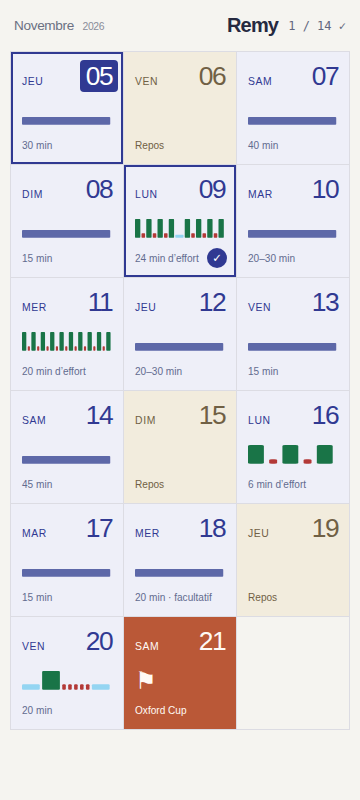
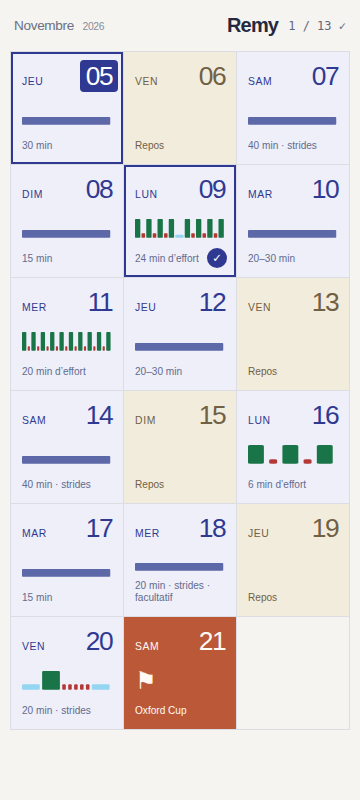
Affiche les strides et ajuste les journées des 13 et 14

diff --git a/app.js b/app.js
@@ -84,9 +84,10 @@ function renderDays() {
   const weekday=new Intl.DateTimeFormat('fr-CA',{weekday:'short'});
   for(const day of data.days) {
     const done=!!completed[day.date],w=day.workout,type=w?.type;
+    const hasStrides=type==='easy-strides'||(type==='steps'&&buildPhases(w).some(p=>p.kind==='stride'));
     const total=type==='steps'?buildPhases(w).reduce((n,p)=>n+(p.seconds||0),0):null;
     const label=type==='race'?'Oxford Cup':day.rest?'Repos':day.effortMinutes?`${day.effortMinutes} min d’effort`:w?.durationSeconds?`${w.optionalAfterSeconds?w.optionalAfterSeconds/60+'–':''}${w.durationSeconds/60} min`:total?`${total/60} min`:'';
-    html+=`<button type="button" class="day-button ${day.status} ${type==='race'?'race':''} ${w?'has-workout':''} ${day.rest?'rest':''} ${done?'completed':''}" data-day="${day.date}" aria-haspopup="dialog" aria-label="${escape(dayFormat.format(date(day.date))+' : '+day.title+(day.optional?', facultatif':'')+(w?done?', séance faite':', séance à faire':''))}"><span class="day-top"><span class="day-name">${escape(weekday.format(date(day.date)).replace('.',''))}</span><span class="day-number">${String(date(day.date).getDate()).padStart(2,'0')}</span></span>${workoutGraph(day)}<span class="day-short">${escape(label+(day.optional?' · facultatif':''))}</span>${done?'<span class="day-marker" aria-hidden="true">✓</span>':''}${type==='race'?'<span class="race-flag" aria-hidden="true">⚑</span>':''}</button>`;
+    html+=`<button type="button" class="day-button ${day.status} ${type==='race'?'race':''} ${w?'has-workout':''} ${day.rest?'rest':''} ${done?'completed':''}" data-day="${day.date}" aria-haspopup="dialog" aria-label="${escape(dayFormat.format(date(day.date))+' : '+day.title+(day.optional?', facultatif':'')+(w?done?', séance faite':', séance à faire':''))}"><span class="day-top"><span class="day-name">${escape(weekday.format(date(day.date)).replace('.',''))}</span><span class="day-number">${String(date(day.date).getDate()).padStart(2,'0')}</span></span>${workoutGraph(day)}<span class="day-short">${escape(label+(hasStrides?' · strides':'')+(day.optional?' · facultatif':''))}</span>${done?'<span class="day-marker" aria-hidden="true">✓</span>':''}${type==='race'?'<span class="race-flag" aria-hidden="true">⚑</span>':''}</button>`;
   }
   $('days').innerHTML=html;refreshCalendarDates();
   const count=data.days.filter(d=>d.workout&&completed[d.date]).length,total=data.days.filter(d=>d.workout).length;

diff --git a/mise-a-jour.html b/mise-a-jour.html
@@ -2,7 +2,7 @@
 <html lang="fr-CA">
 <head>
 <meta charset="utf-8"><meta name="viewport" content="width=device-width,initial-scale=1">
-<meta name="remy-build" content="remy-e33b260e4673ed20"><title>Actualiser Remy</title>
+<meta name="remy-build" content="remy-1c683ac68f4c5bcc"><title>Actualiser Remy</title>
 <style>body{margin:0;padding:32px;font:16px/1.6 Arial,sans-serif;background:#f5f4f0;color:#252940}main{max-width:480px;margin:12vh auto}h1{font-size:28px;letter-spacing:-1px}a{color:#303992}p{margin:20px 0}</style>
 </head>
 <body><main><h1>Actualisation de Remy</h1><p id="status" role="status">Recherche de la dernière version… Tes séances faites sont conservées.</p><a href="./">Retour au calendrier</a></main>

diff --git a/index.html b/index.html
@@ -3,7 +3,7 @@
 <head>
   <meta charset="utf-8">
   <meta name="viewport" content="width=device-width, initial-scale=1, viewport-fit=cover">
-  <meta name="remy-build" content="remy-e33b260e4673ed20">
+  <meta name="remy-build" content="remy-1c683ac68f4c5bcc">
   <meta name="theme-color" content="#f5f4f0">
   <meta name="description" content="Le carnet de course de Remy. Calendrier et chronomètre pour l’Oxford Cup du 21 novembre 2026.">
   <title>Remy — Calendrier</title>

diff --git a/sw.js b/sw.js
@@ -1,5 +1,5 @@
 // Generated build identity includes this worker and every static resource.
-const VERSION = 'remy-e33b260e4673ed20';
+const VERSION = 'remy-1c683ac68f4c5bcc';
 const SCOPE = new URL(self.registration.scope);
 const CACHE = `${VERSION}@${SCOPE.pathname}`;
 const FILES = ['./','./index.html','./mise-a-jour.html','./style.css','./app.js','./engine.js','./schedule.json','./icon.svg','./icon-192.png','./icon-512.png','./manifest.webmanifest'];

diff --git a/style.css b/style.css
@@ -57,6 +57,9 @@
   .day-button.race .day-marker { color:#743821; background:#fffaf5; }
   .day-button:hover { box-shadow:inset 0 0 0 2px #777eab; }
   .day-button:focus-visible { outline-offset:-4px; z-index:1; }
+  @media(min-width:601px) and (max-width:900px) {
+    .day-button { padding:10px; }
+  }
   @media(max-width:600px) {
     #home { padding:12px 10px max(12px,env(safe-area-inset-bottom)); }
     .calendar-header { padding:2px 4px 14px; }

diff --git a/docs/verification.md b/docs/verification.md
@@ -13,7 +13,7 @@ Captures : [calendrier](apercu-mobile.png), [fiche du 9](apercu-fiche.png), [chr
 
 ## Comportements précisés
 
-Le 5 lance un jog de 30 minutes; le 7 un jog de 40 minutes avec objectif de six strides de 20 secondes. Le 14 conserve 45 minutes et six strides de 20 secondes, précédées de l’échauffement libre demandé. Les séances futures avec répétitions reçoivent aussi un échauffement libre; l’activation du 20 conserve explicitement sa séquence existante.
+Le 5 lance un jog de 30 minutes; le 7 un jog de 40 minutes avec objectif de six strides de 20 secondes. Le 14 conserve désormais 40 minutes et six strides de 20 secondes, précédées de l’échauffement libre demandé. Les séances futures avec répétitions reçoivent aussi un échauffement libre; l’activation du 20 conserve explicitement sa séquence existante.
 
 Le maintien de 3 secondes démarre les intervalles ou le bloc suivant sans déverrouiller les autres commandes. Le maintien de 1 seconde lance un stride même quand les commandes sont verrouillées. Pause et Stop demandent le déverrouillage habituel. Le compteur « strides effectués » compte les déclenchements; le résumé sépare les strides lancés, complétés et interrompus.
 
@@ -23,13 +23,13 @@ Les instantanés d’anciens chronos devenus incompatibles sont écartés avec u
 
 ## Correction des strides et migration du cache
 
-Correction confirmée par Eric : le 7 reste à 40 minutes, le 14 à 45 minutes; les deux ont six strides de 20 secondes. Le moteur et les fiches lisent ces mêmes données; depuis le 6 novembre, les graphiques masquent les strides à la demande d’Eric. Aucune autre prescription n’est modifiée.
+Correction confirmée par Eric : le 7 reste à 40 minutes, le 14 est maintenant à 40 minutes; les deux ont six strides de 20 secondes. Le moteur et les fiches lisent ces mêmes données; depuis le 6 novembre, les graphiques masquent les strides à la demande d’Eric. Aucune autre prescription n’est modifiée.
 
 Le défaut de cache a été reproduit : avec le commit `6ab5284` actif et `8755ed8` en attente, recharger ne suffit pas; l’ancien calendrier de 15 cases reste affiché. Le service worker servait les anciens fichiers en priorité et attendait la fermeture de toutes les fenêtres pour activer la nouvelle version. Références du mécanisme : [activation immédiate contrôlée](https://developer.mozilla.org/en-US/docs/Web/API/ServiceWorkerGlobalScope/skipWaiting), [vérification des mises à jour](https://developer.mozilla.org/en-US/docs/Web/API/ServiceWorkerRegistration/update).
 
 La nouvelle version télécharge un ensemble complet avec des requêtes propres à sa version, s’active sans attendre la fermeture de toutes les fenêtres, puis actualise le calendrier. Les pages modernes reportent le rechargement pendant un chrono. Les anciennes pages ne répondant pas au nouveau protocole sont actualisées seulement si elles ne montrent pas de chrono. Le lien `mise-a-jour.html` permet aussi de quitter une ancienne installation sans effacer les données locales. La version est indiquée dans les fiches.
 
-**12 scénarios de migration réussis** simulent les deux anciens états, une mise à jour future avec chrono actif, une connexion coupée et un fichier manquant. Les coches et les chronos compatibles mis en pause sont conservés; une mise à jour incomplète laisse la version hors ligne précédente disponible. Les caches d’autres chemins et localStorage ne sont pas supprimés.
+**13 scénarios de migration réussis** simulent les deux anciens états, une mise à jour future avec chrono actif, une connexion coupée et un fichier manquant. Les coches et les chronos compatibles mis en pause sont conservés; une mise à jour incomplète laisse la version hors ligne précédente disponible. Les caches d’autres chemins et localStorage ne sont pas supprimés.
 
 La nouvelle apparence est vérifiée après migration en fenêtres **360×800** et **412×915** : trois colonnes, cases carrées, noms des jours, mini-graphiques des 9 et 11, mois discret. Captures : [avant migration](migration-avant.png), [après, 360 px](migration-360.png), [après, 412 px](migration-412.png). Il s’agit de simulations Chromium, pas d’une observation du Galaxy d’Eric.
 
@@ -41,7 +41,7 @@ Le contenu des séances et le moteur restent identiques au commit `0f94bdd`; seu
 
 ## Calendrier et consignes du 6 novembre 2026
 
-Repos confirmés les 6, 15 et 19. Le 8 propose 15 min très faciles ou repos si jambes lourdes; le 13, 15 min faciles; le 17, 15 min très faciles confirmées. Le 12 a ensuite été confirmé comme jog très léger de 20–30 min.
+Repos confirmés les 6, 13, 15 et 19. Le 8 propose 15 min très faciles ou repos si jambes lourdes; le 17, 15 min très faciles confirmées. Le 12 a ensuite été confirmé comme jog très léger de 20–30 min.
 
 Le 10 propose 20–30 min en Z1 : compte à rebours initial 30:00, bleu ciel jusqu’à 20 min écoulées, puis gris avec 10:00 restantes. Arrêt possible après 20 min; les dix dernières sont facultatives. À zéro, temps supplémentaire ascendant gris jusqu’à Stop. Les tests couvrent le seuil exact, la pause/reprise, le rechargement, l’arrêt anticipé et le résumé.
 
@@ -58,6 +58,12 @@ Les migrations incluent le commit publié `cbb32c4` avec conservation des coches
 La demande corrigée d’Eric est un jog très léger de **20 à 30 minutes**. Seule cette journée change, avec la révision `2026-11-06.4`. Le fonctionnement existant du 10 est réutilisé : départ à 30:00, bleu ciel pendant 20 minutes, gris dès 10:00 restantes pour la portion facultative, puis temps supplémentaire ascendant à zéro. Stop termine et affiche le résumé; pause/reprise et rechargement conservent le temps actif. Aucune zone supplémentaire n’est imposée.
 
 Les parcours tactiles vérifient ces transitions, l’arrêt après 20 minutes et la reprise du 12; les migrations incluent la version publiée `49b6653` et conservent les coches. Les autres journées et le code du chrono restent identiques. [Capture de la fiche du 12](fiche-jog-12.png).
+
+## Repos le vendredi 13 novembre
+
+À la demande d’Eric, le jog du 13 est remplacé par une journée de repos confirmée. Sa case et sa fiche utilisent le même libellé et le même style pâle que les autres repos, sans bouton de chrono. Le 14 passe à 40 minutes avec ses six strides de 20 secondes; ses textes et son chrono sont adaptés. Les cases des 7, 14, 18 et 20 affichent « strides », sans ajout dans les graphiques. Toutes les autres prescriptions restent identiques. Révision : `2026-11-06.5`.
+
+La migration depuis `17b5d7b` vérifie le remplacement du jog, le maintien des coches et l’ouverture d’un ancien lien de chrono du 13 sur la fiche Repos, sans lancer de séance. Un ancien chrono du 14 est reconnu comme incompatible et repart au début avec un avis explicite; sa coche est conservée. Les 13 scénarios de migration couvrent ces deux changements. Les libellés restent lisibles de 320 à 1 440 px sans débordement horizontal ou vertical; les marges sont adaptées entre 601 et 900 px. Captures : [repos du 13](fiche-repos-13.png), [40 minutes du 14](fiche-strides-14.png).
 
 ## Référence GBoxeur et revue Astra
 

diff --git a/AGENTS.md b/AGENTS.md
@@ -4,16 +4,17 @@ Projet statique indépendant pour Remy. Lire README.md et docs/seances.md avant 
 
 - Source du programme : schedule.json. Ne pas inventer d’entraînement, de durée ou de zone. Les inconnues restent explicites.
 - Accueil : seulement le calendrier interactif, sans accroche, panneau d’aide ou barre du bas. Les détails appartiennent aux fiches ouvertes par les dates.
+- Calendrier : afficher « strides » dans les cases des 7, 14, 18 et 20, sans les dessiner dans les graphiques.
 - Graphiques : aucun stride représenté, même dans les étapes de l’activation; conserver les descriptions et chronos. Les phases d’intervalles représentées partagent exactement les couleurs du chrono. Cette demande remplace l’interdiction initiale du vert à l’accueil.
 - Français québécois, langage simple : jog facile, récupération, répétitions, accélérations.
 - Activation confirmée vendredi 20 novembre 2026; course samedi 21. La clarification du 5 novembre remplace l’ambiguïté antérieure.
-- Dernières décisions du 6 novembre : repos les 6, 15 et 19; le 8, 15 min très faciles ou repos si jambes lourdes; le 13, 15 min faciles; le 17, 15 min très faciles confirmées.
+- Dernières décisions du 6 novembre : repos les 6, 13, 15 et 19; le 8, 15 min très faciles ou repos si jambes lourdes; le 17, 15 min très faciles confirmées.
 - Le 10 : jog Z1 20–30 min, chrono 30:00 bleu ciel puis gris après 20 min. Les 10 dernières minutes sont facultatives; aucun arrêt automatique, temps supplémentaire puis résumé au Stop.
 - Le 12 : jog très léger 20–30 min, avec le même compte à rebours et la même portion facultative que le 10. Ne pas reprendre l’ancienne demande 15–20 min.
 - Le 16 : échauffement conseillé 10 min mais libre, 3 × 2 min à effort 5 km, seulement 2 récupérations de 1 min très facile, retour conseillé 5 min mais libre; total indicatif 23 min. Le 18 : facultatif, 20 min très faciles et 4 strides de 10 s, chrono/maintien/compteur existants. Le 20 reste inchangé.
-- Explications sous Strides les 7, 14 et 18, adaptées aux 40/45/20 min et 6×20/6×20/4×10 s : répartition libre, vitesse contrôlée sans sprint, maintien du bouton 1 s, récupération jusqu’à respiration régulière. Le 11 a une fiche plus claire avec échauffement/retour libres; son programme et le contenu du 9 restent inchangés.
+- Explications sous Strides les 7, 14 et 18, adaptées aux 40/40/20 min et 6×20/6×20/4×10 s : répartition libre, vitesse contrôlée sans sprint, maintien du bouton 1 s, récupération jusqu’à respiration régulière. Le 11 a une fiche plus claire avec échauffement/retour libres; son programme et le contenu du 9 restent inchangés.
 - Jour courant selon America/Toronto, encadré conservé; jours passés légèrement estompés mais toujours consultables.
 - Garder les données locales au navigateur et le fonctionnement hors ligne. Pas de compte ni de synchronisation implicite.
-- Ajustements Galaxy autorisés : calendrier du 5 au 21, grandes cases carrées; chrono gris/bleu ciel/vert/rouge selon phase. Recommandations du 9 : échauffement 10–15 min et retour au calme 5–10 min, sans transition automatique. Correction d’Eric : les strides des 7 et 14 durent tous 20 s; conserver 40 min le 7 et 45 min le 14, objectif six.
+- Ajustements Galaxy autorisés : calendrier du 5 au 21, grandes cases carrées; chrono gris/bleu ciel/vert/rouge selon phase. Recommandations du 9 : échauffement 10–15 min et retour au calme 5–10 min, sans transition automatique. Correction d’Eric : les strides des 7 et 14 durent tous 20 s; conserver 40 min les 7 et 14, objectif six.
 - Après toute modification des fichiers du site à la racine, lancer npm run prepare:offline, npm test et npm run check. Pour un changement du chrono ou de navigation, lancer les essais navigateur et tactiles avec le serveur local. Pour le cache, lancer aussi les migrations avec npm run test:update.
 - Eric a autorisé explicitement le 5 novembre 2026 le passage de mixmasterkd/Remy en public, historique compris, et GitHub Pages sur main / (root). Ne pas modifier la visibilité ou l’hébergement d’autres dépôts. Aucune modification de GBoxeur ou de CyberAS n’appartient à ce projet.

diff --git a/README.md b/README.md
@@ -19,7 +19,7 @@ L’écran d’accueil contient uniquement le calendrier : chaque journée est u
 
 Couleurs du chrono : jog et pause entre blocs **bleu ciel**, échauffement/retour au calme/temps supplémentaire **gris**, efforts et strides **vert**, récupérations courtes **rouge**. Deux variations légères de luminosité signalent la fin d’un stride; elles sont désactivées si la réduction des animations est demandée sur l’appareil.
 
-Les graphiques du calendrier et des fiches ne représentent pas les strides; ceux-ci restent dans les descriptions et les chronomètres. Les phases d’intervalles représentées utilisent les couleurs du chrono. Les jogs ont une barre continue.
+Les cases des journées avec strides portent ce libellé. Les graphiques du calendrier et des fiches ne représentent pas les strides; ceux-ci restent dans les descriptions et les chronomètres. Les phases d’intervalles représentées utilisent les couleurs du chrono. Les jogs ont une barre continue.
 
 Le suivi et les chronos sont enregistrés séparément pour chaque date dans `localStorage`. Ils appartiennent au navigateur, au profil et à l’adresse du site utilisés. Pas de synchronisation entre le téléphone d’Eric et celui de Remy, ni entre Chrome et un autre navigateur. Effacer les données peut effacer le suivi. Utiliser une seule fenêtre du chrono à la fois.
 
@@ -43,8 +43,8 @@ Le plein écran et le maintien de l’écran éveillé restent à vérifier sur 
 | Mar. 10 | 20–30 min en Z1 | Arrêt possible après 20 min; les dix dernières sont facultatives |
 | Mer. 11 | 10 × 2 min, 1 min entre efforts | 20 min d’effort; échauffement et retour libres |
 | Jeu. 12 | 20–30 min de jog très léger | Même chrono que le 10; arrêt possible après 20 min |
-| Ven. 13 | 15 min de jog facile | — |
-| Sam. 14 | 45 min faciles + 6 strides de 20 s | Échauffement libre; guide sous Strides |
+| Ven. 13 | Repos | — |
+| Sam. 14 | 40 min faciles + 6 strides de 20 s | Échauffement libre; guide sous Strides |
 | Dim. 15 | Repos | Inchangé |
 | Lun. 16 | 3 × 2 min à effort 5 km, 1 min très facile entre efforts | Deux récupérations; 10 min d’échauffement et 5 min de retour conseillées, libres; 23 min si suivies |
 | Mar. 17 | 15 min très faciles | Confirmé |
@@ -55,7 +55,7 @@ Le plein écran et le maintien de l’écran éveillé restent à vérifier sur 
 
 Les 10 et 12 commencent à **30:00** sur fond bleu ciel; à **10:00 restantes**, le fond devient gris et indique la portion facultative. Il peut s’arrêter selon son état dès 20 minutes. À zéro, le chrono continue vers le haut en gris jusqu’à **Stop · résumé**, comme les autres jogs. La pause et la reprise ne comptent pas le temps de pause.
 
-Les strides des samedis **7 et 14 durent 20 secondes**. Le jog du 7 dure **40 minutes**, celui du 14 **45 minutes**. Elles sont incluses dans le compte à rebours du jog. L’objectif reste six, avec des déclenchements supplémentaires permis. Aucun stride n’est lancé automatiquement. L’activation confirmée du 20 conserve exactement ses étapes et ses 20 minutes.
+Les strides des samedis **7 et 14 durent 20 secondes**. Le jog du 7 dure **40 minutes**, celui du 14 **40 minutes**. Elles sont incluses dans le compte à rebours du jog. L’objectif reste six, avec des déclenchements supplémentaires permis. Aucun stride n’est lancé automatiquement. L’activation confirmée du 20 conserve exactement ses étapes et ses 20 minutes.
 
 ## Lancer et vérifier
 
